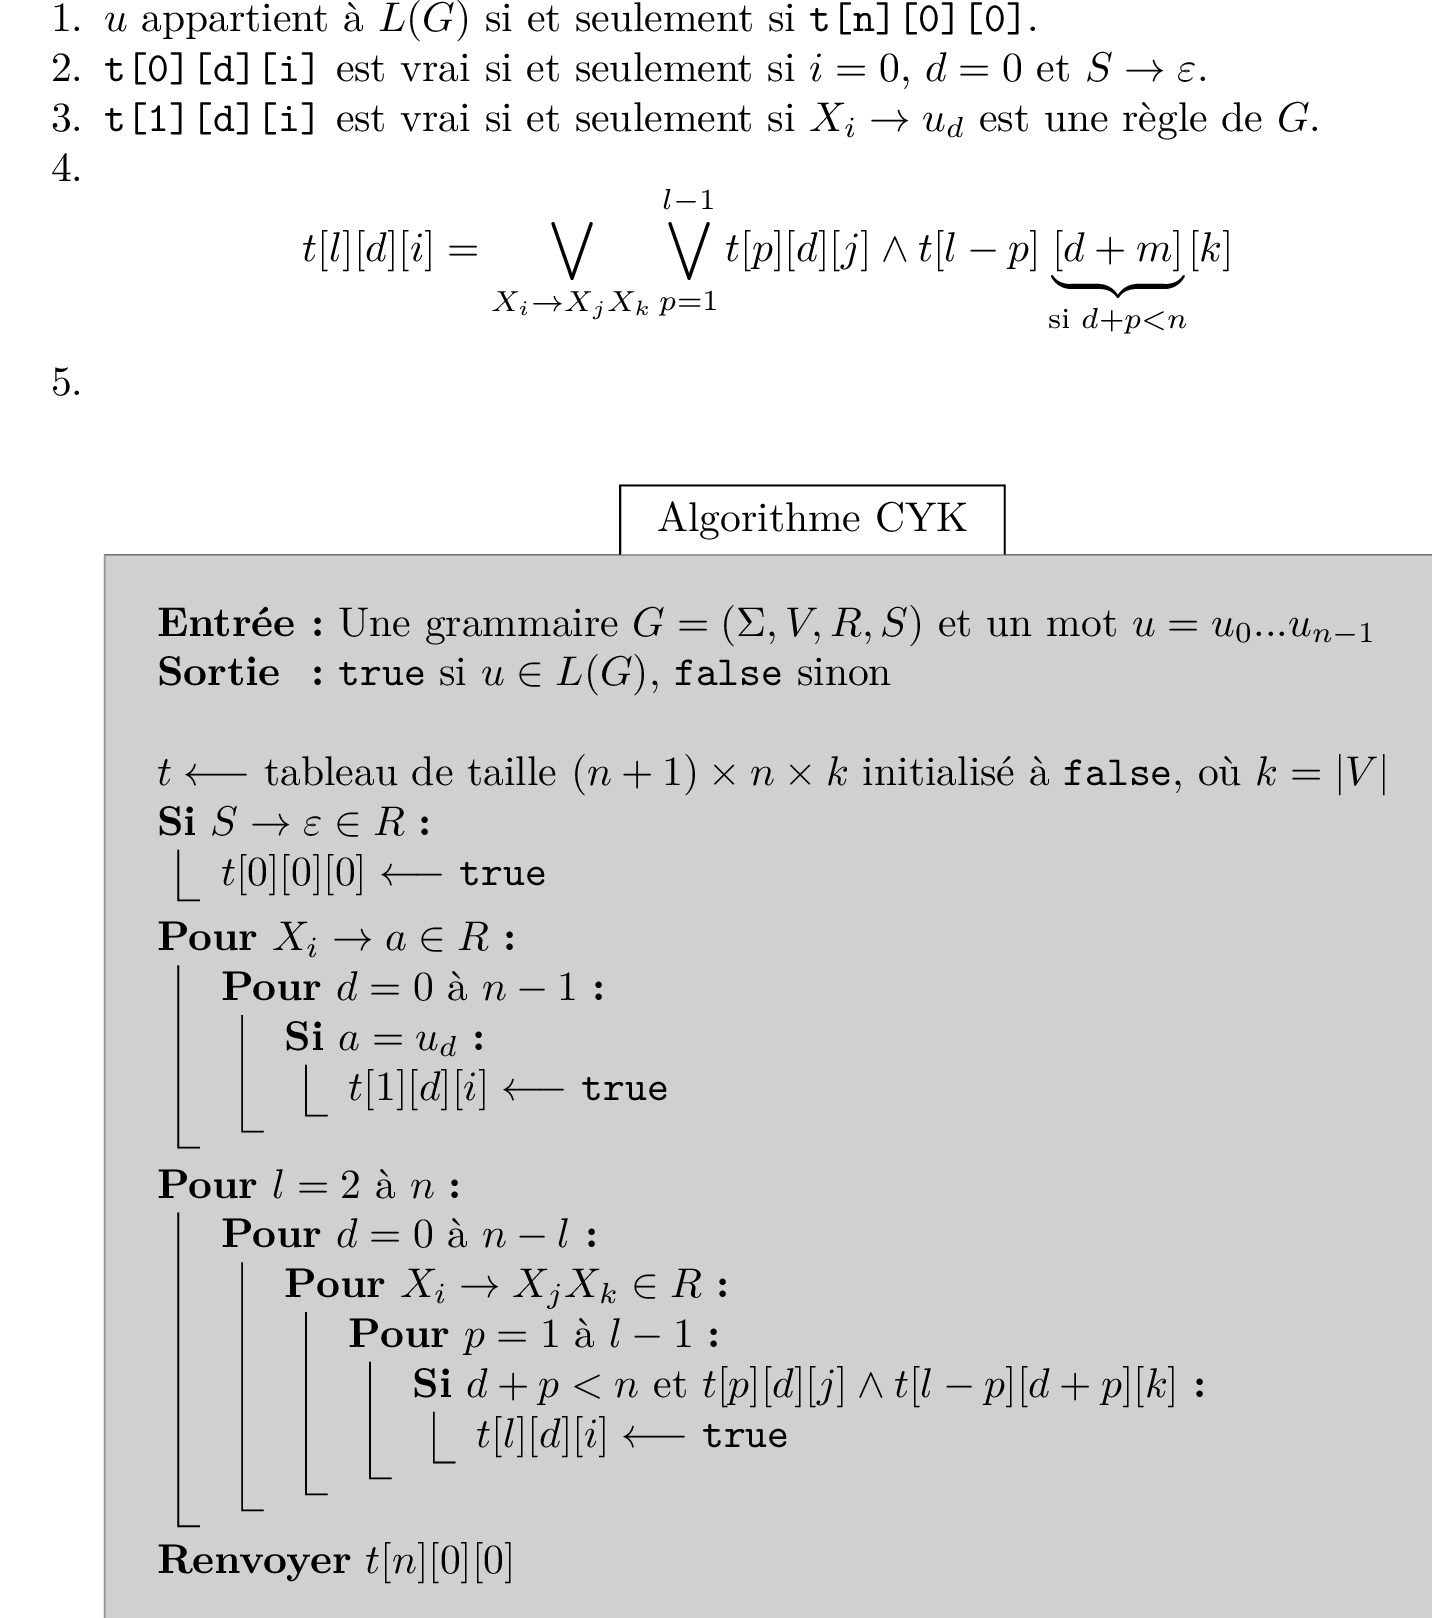
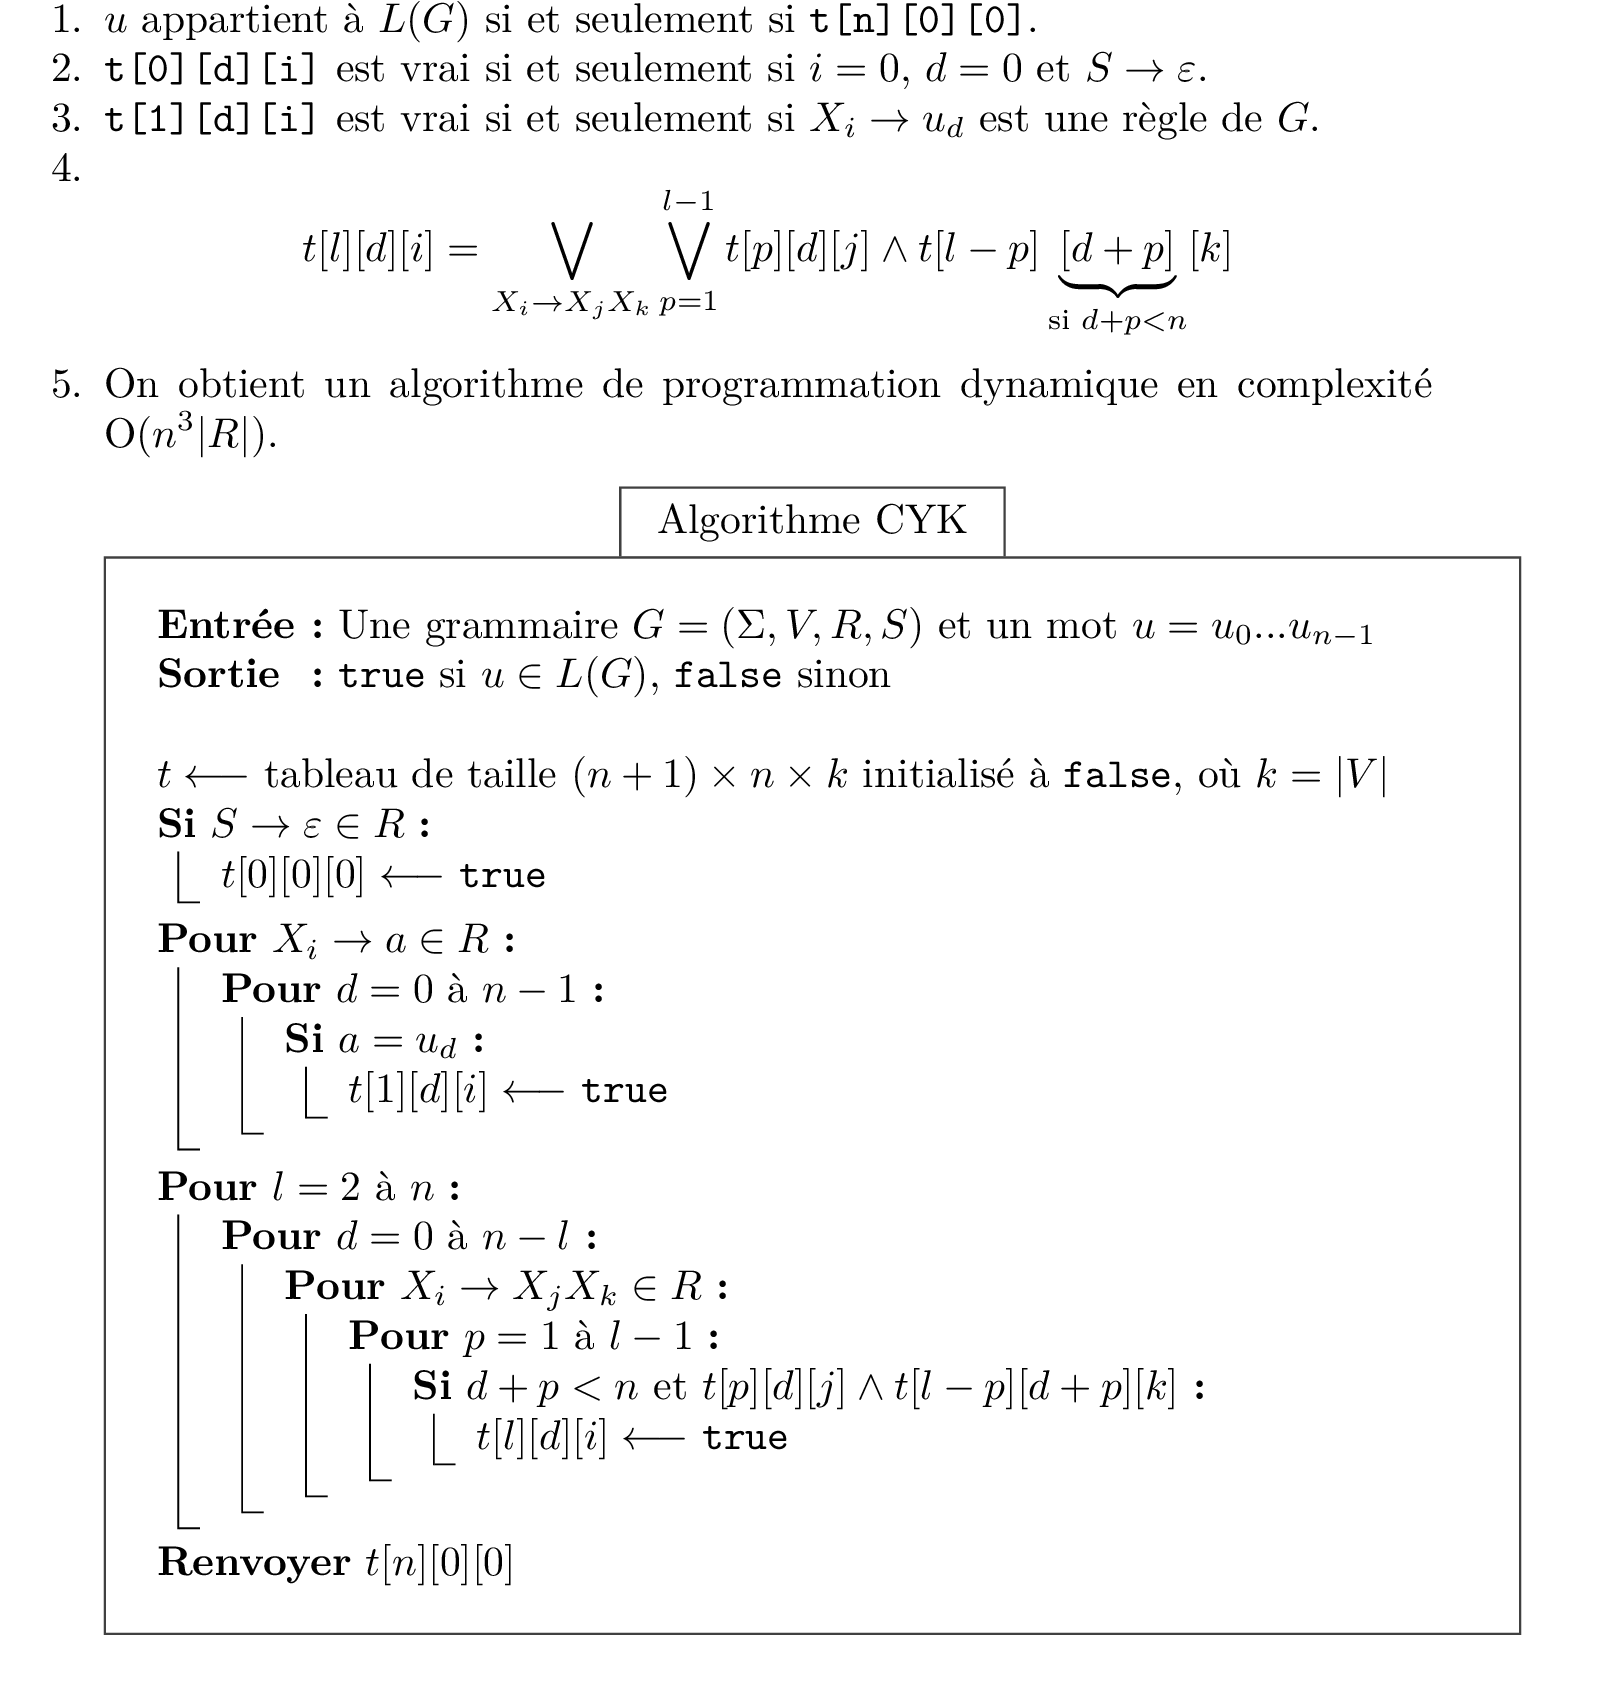
Update

diff --git a/docs/tp/4_tp4/tp4.tex b/docs/tp/4_tp4/tp4.tex
@@ -10,7 +10,7 @@
     \item $u$ appartient à $L(G)$ si et seulement si \texttt{t[n][0][0]}.
     \item \texttt{t[0][d][i]} est vrai si et seulement si $i = 0$, $d = 0$ et $S \rightarrow \varepsilon$.
     \item \texttt{t[1][d][i]} est vrai si et seulement si $X_i \rightarrow u_d$ est une règle de $G$.
-    \item $$t[l][d][i] = {\bigvee_{\substack{X_i \rightarrow X_j X_k}} \bigvee_{p = 1}^{l-1} t[p][d][j] \land t[l-p]\underbrace{[d+m]}_{\text{si }d + p < n}[k]}$$
+    \item $$t[l][d][i] = {\bigvee_{\substack{X_i \rightarrow X_j X_k}} \bigvee_{p = 1}^{l-1} t[p][d][j] \land t[l-p]\underbrace{[d+p]}_{\text{si }d + p < n}[k]}$$
     \item On obtient un algorithme de programmation dynamique en complexité O($n^3 | R |$).
     \begin{algo2}{Algorithme CYK}{12cm}
         \Entree{Une grammaire $G = (\Sigma, V, R, S)$ et un mot $u = u_0 ... u_{n - 1}$}
